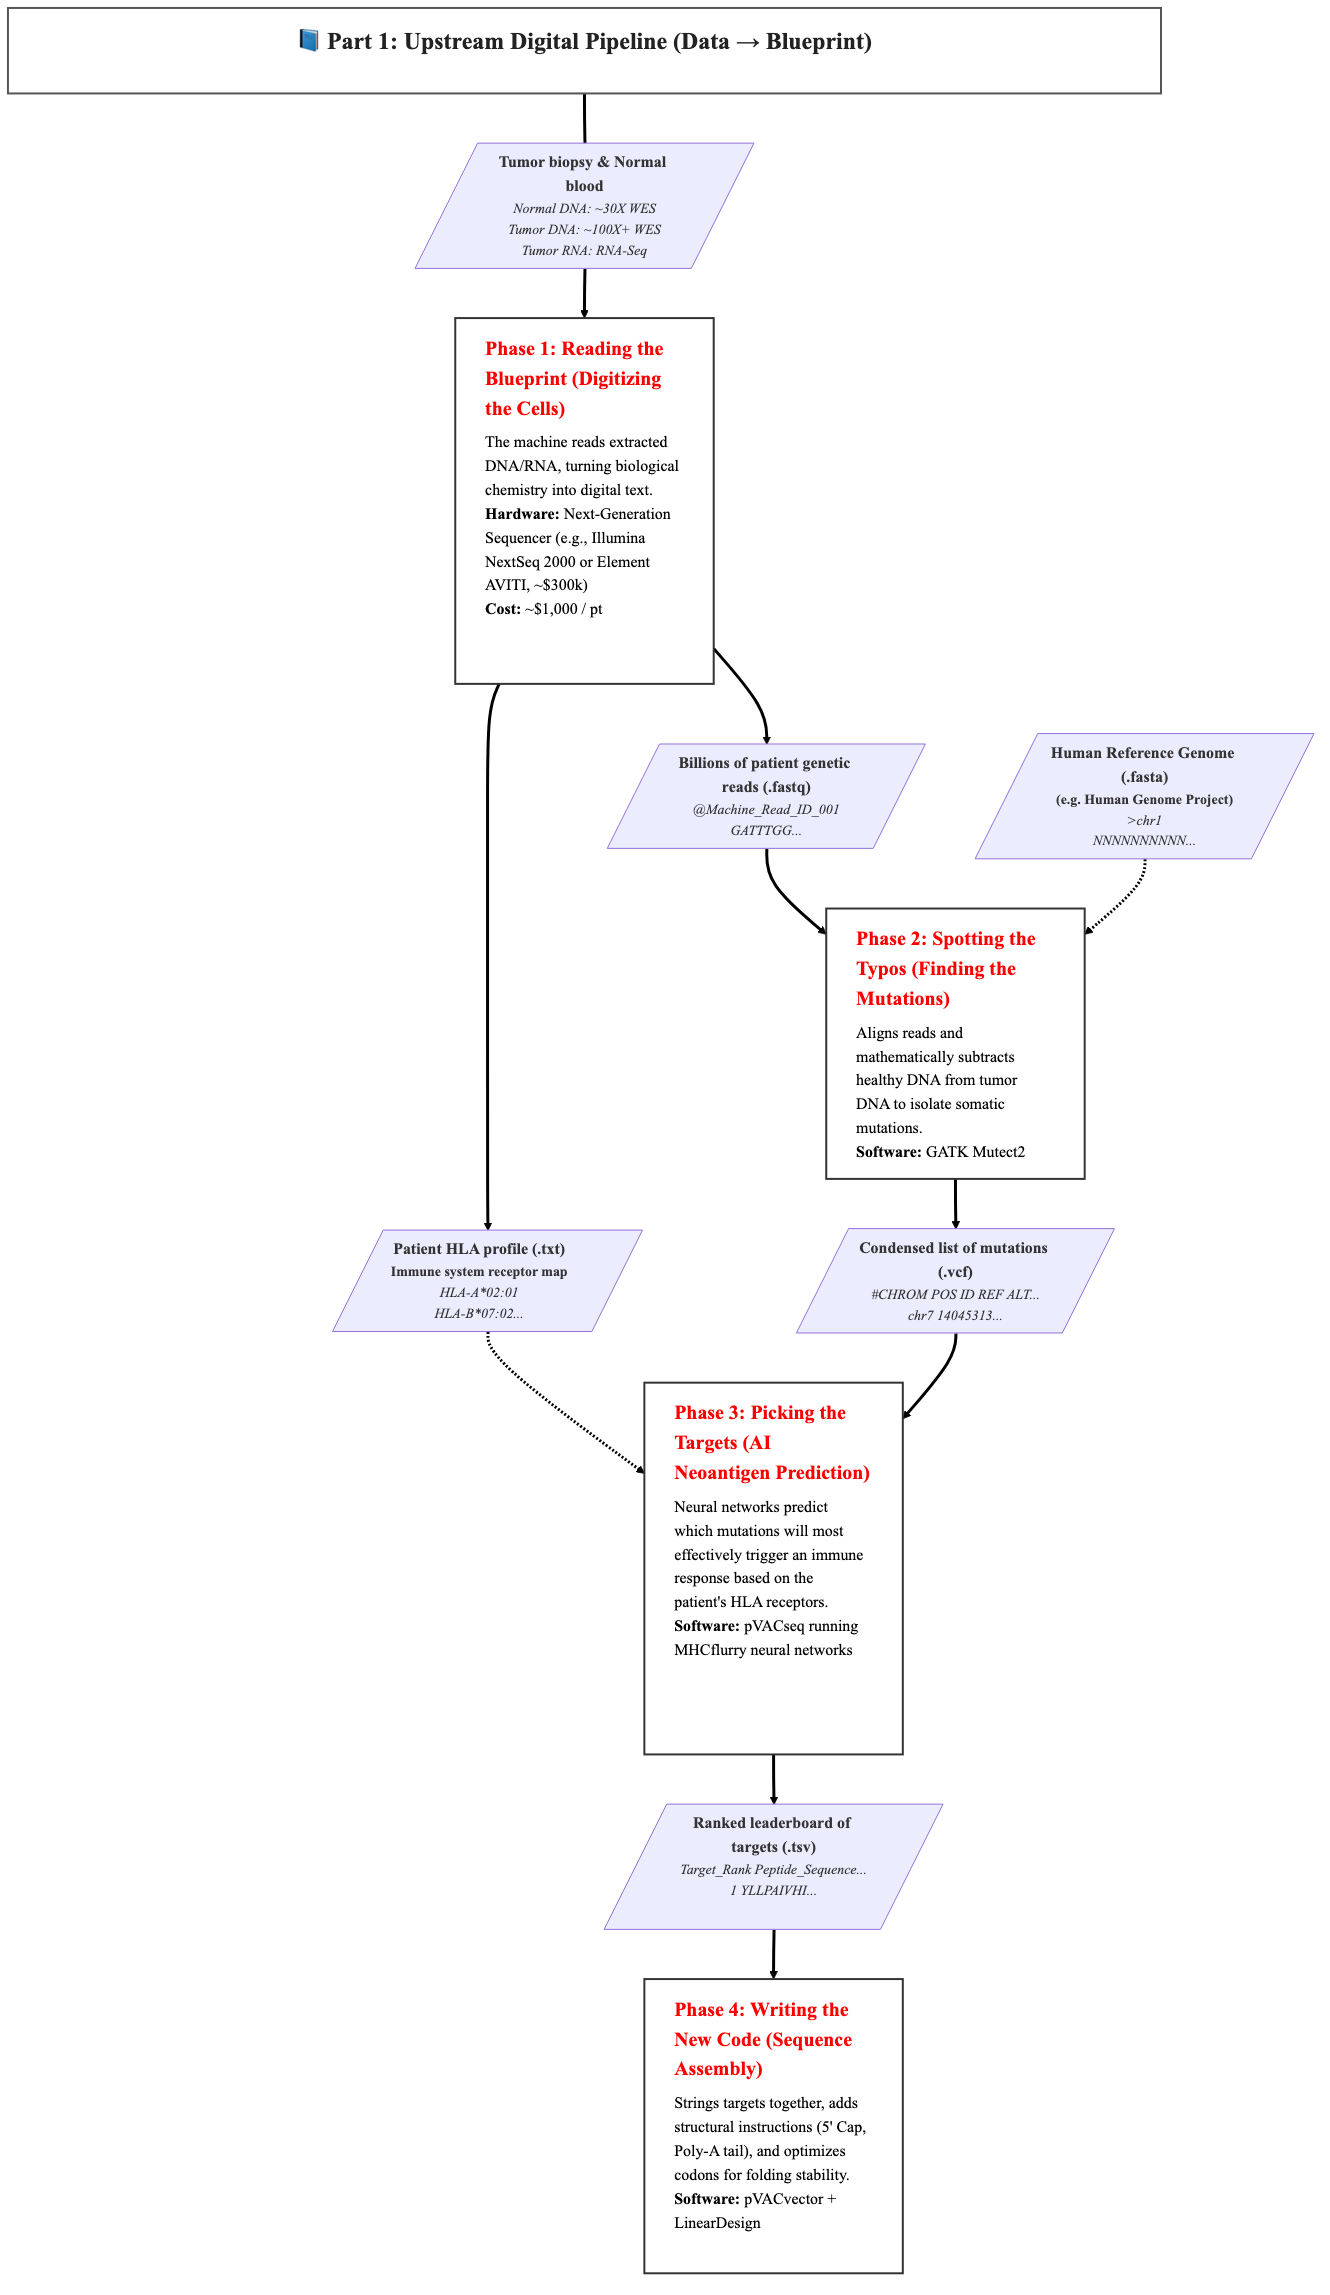
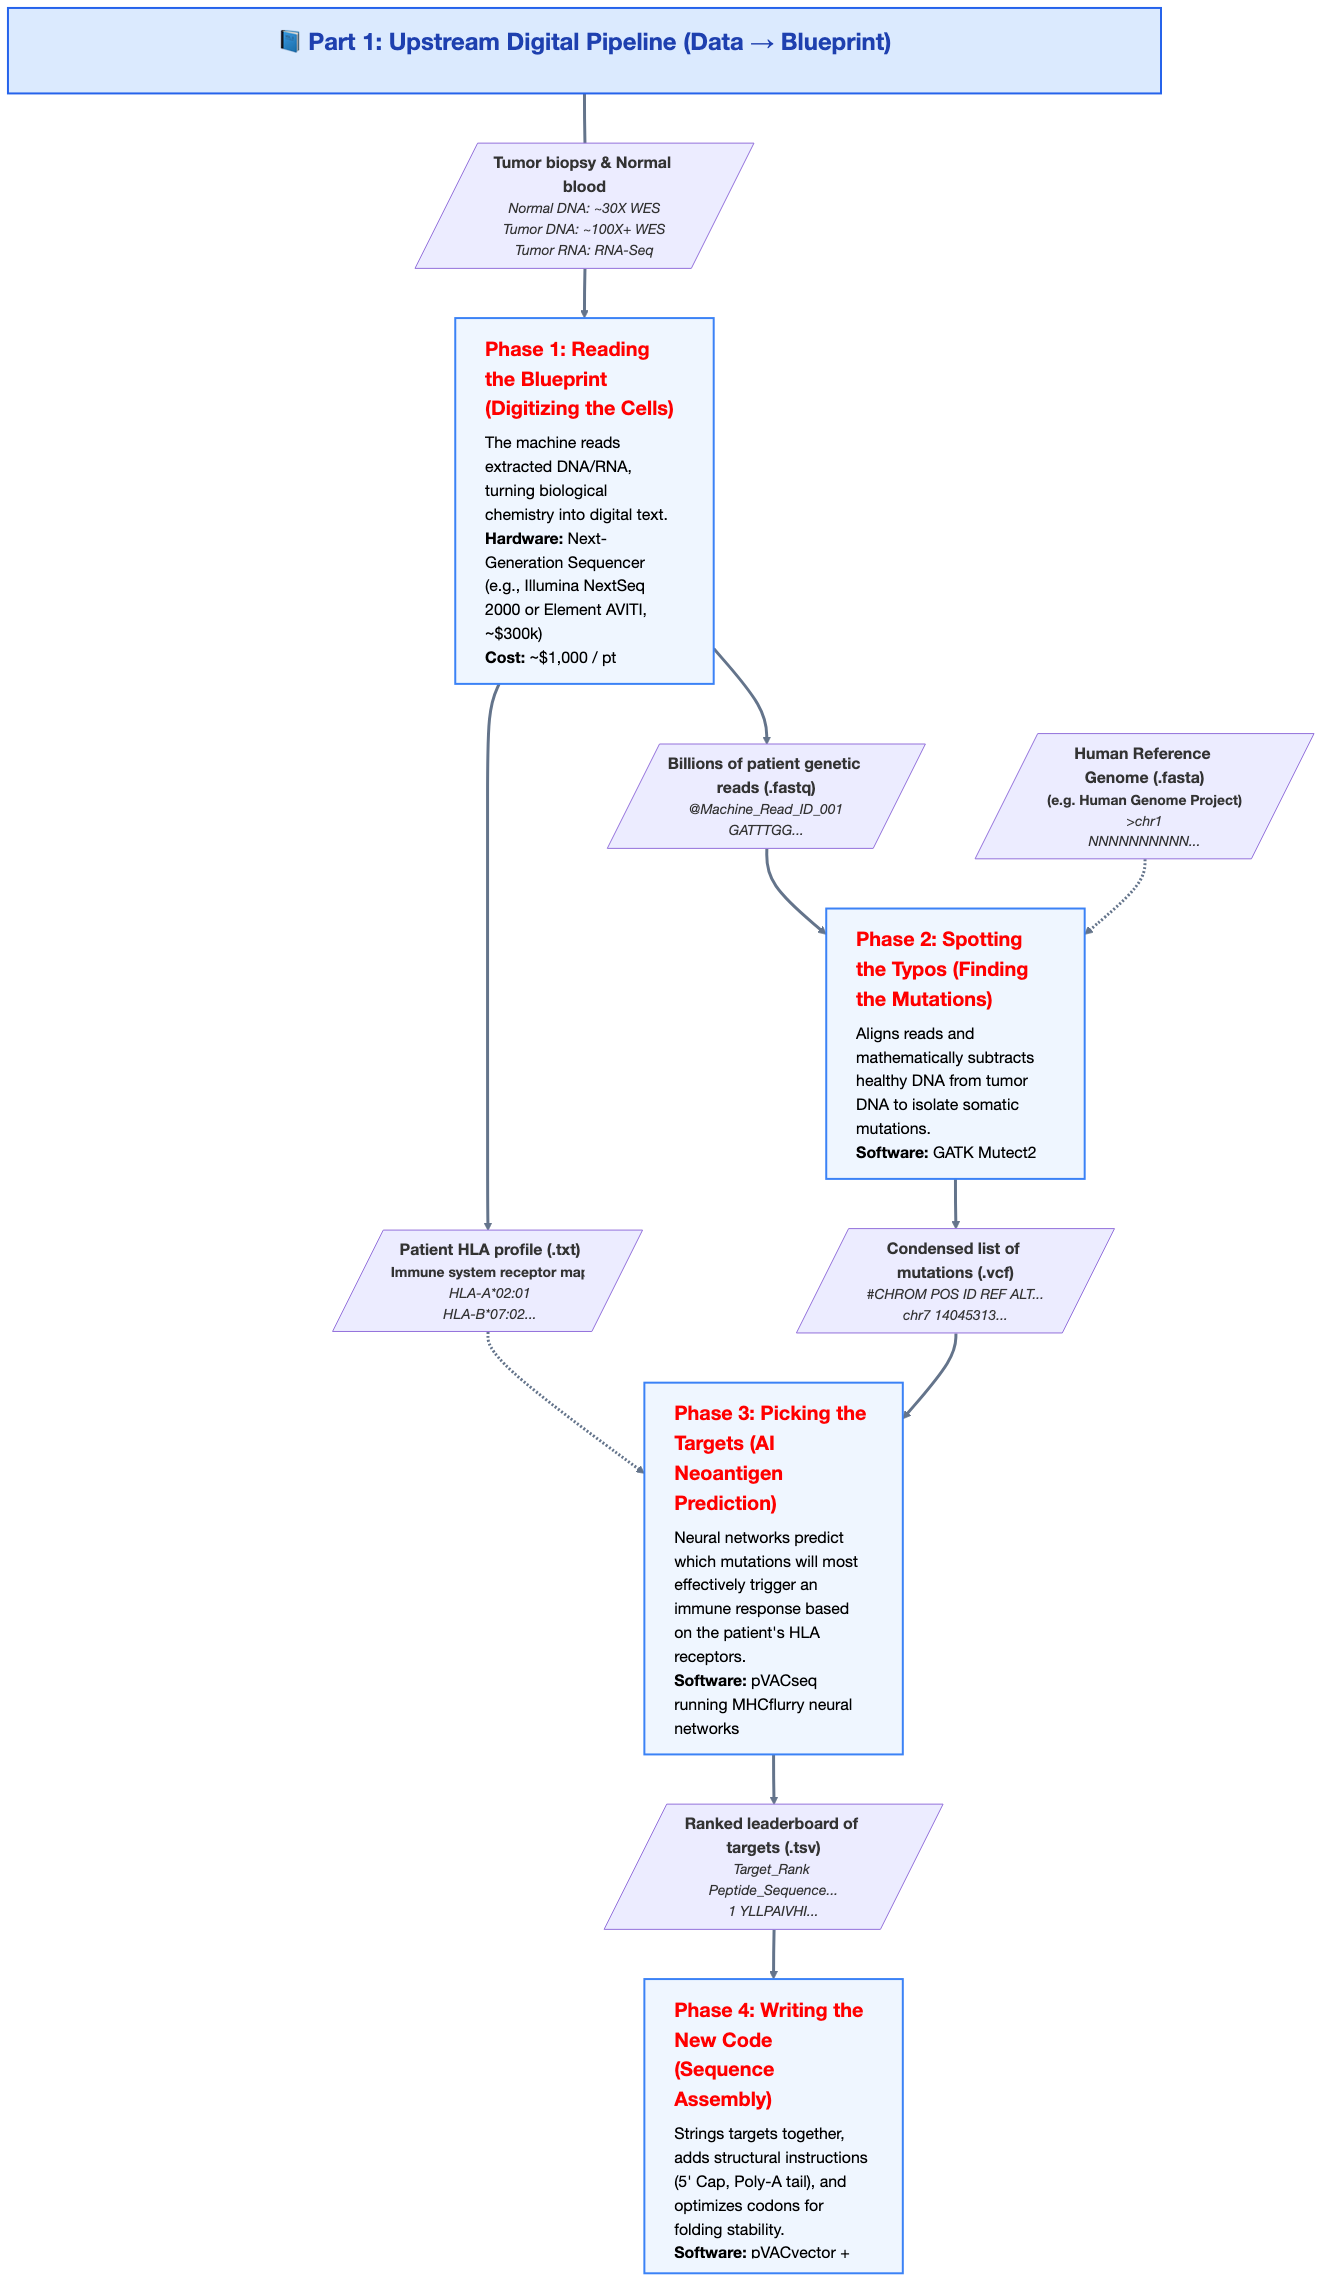
updated fonts

diff --git a/scripts/mermaid.css b/scripts/mermaid.css
@@ -1,0 +1,3 @@
+* {
+    font-family: 'Helvetica Neue', 'Arial', sans-serif !important;
+}

diff --git a/scripts/generate_diagrams.py b/scripts/generate_diagrams.py
@@ -16,7 +16,7 @@ def extract_mermaid(file_path):
 
 def generate_part_mermaid(full_mermaid, part_num):
     # Header - only one of these should exist in the final file
-    header = "%%{init: {'themeVariables': { 'fontSize': '16px', 'fontFamily': 'Inter, system-ui, sans-serif' }}}%%\nflowchart TD\n"
+    header = "%%{init: {'themeVariables': { 'fontSize': '16px', 'fontFamily': '-apple-system, BlinkMacSystemFont, Segoe UI, Inter, Roboto, Helvetica Neue, sans-serif' }}}%%\nflowchart TD\n"
     
     # Extract global styles and classes
     class_defs = re.findall(r'^[ \t]*(?:classDef|class|style|linkStyle)[ \t].*$', full_mermaid, re.MULTILINE)
@@ -51,7 +51,8 @@ def export_diagram(mermaid_text, output_path):
     
     try:
         print(f"Exporting to {output_path}...")
-        subprocess.run(["mmdc", "-i", temp_mmd, "-o", output_path, "-b", "white", "-w", "2000"], check=True)
+        css_file = os.path.join(os.path.dirname(__file__), "mermaid.css")
+        subprocess.run(["mmdc", "-i", temp_mmd, "-o", output_path, "-b", "white", "-w", "2000", "-C", css_file], check=True)
         print(f"Successfully exported {output_path}!")
     except FileNotFoundError:
         print("\nError: 'mmdc' (Mermaid CLI) not found.")

diff --git a/ARCHITECTURE.md b/ARCHITECTURE.md
@@ -3,7 +3,7 @@
 This document contains the visual representation of the end-to-end mRNA cancer vaccine workflow.
 
 ```mermaid
-%%{init: {'themeVariables': { 'fontSize': '16px', 'fontFamily': 'Inter, system-ui, sans-serif' }}}%%
+%%{init: {'themeVariables': { 'fontSize': '16px', 'fontFamily': '-apple-system, BlinkMacSystemFont, Segoe UI, Inter, Roboto, Helvetica Neue, sans-serif' }}}%%
 flowchart TD
     %% PART 1 %%
     Title1["<div style='font-size: 24px; font-weight: bold; margin-bottom: 20px; min-width: 1100px; text-align: center;'>📘 Part 1: Upstream Digital Pipeline (Data → Blueprint)</div>"]
@@ -67,10 +67,14 @@ flowchart TD
     Phase8 --> NodeEnd
     NodeEnd[/"<div style='font-size: 16px; font-weight: bold;'>Final Vaccine Vial</div>"/]
 
-    classDef process fill:#ffffff,stroke:#333,stroke-width:2px,text-align:left;
-    classDef titleNode fill:#ffffff,stroke:#555,stroke-width:2px,color:#222;
-    class Phase1,Phase2,Phase3,Phase4,Phase5,Phase6,Phase7,Phase8 process;
-    class Title1,Title2 titleNode;
+    classDef processBlue fill:#EFF6FF,stroke:#3B82F6,stroke-width:2px,text-align:left,color:#1E3A5F;
+    classDef processAmber fill:#FFF7ED,stroke:#F59E0B,stroke-width:2px,text-align:left,color:#78350F;
+    classDef titleBlue fill:#DBEAFE,stroke:#2563EB,stroke-width:2px,color:#1E40AF;
+    classDef titleAmber fill:#FEF3C7,stroke:#D97706,stroke-width:2px,color:#92400E;
+    class Phase1,Phase2,Phase3,Phase4 processBlue;
+    class Phase5,Phase6,Phase7,Phase8 processAmber;
+    class Title1 titleBlue;
+    class Title2 titleAmber;
 
-    linkStyle default stroke:#000,stroke-width:3px
+    linkStyle default stroke:#64748B,stroke-width:3px
 ```
